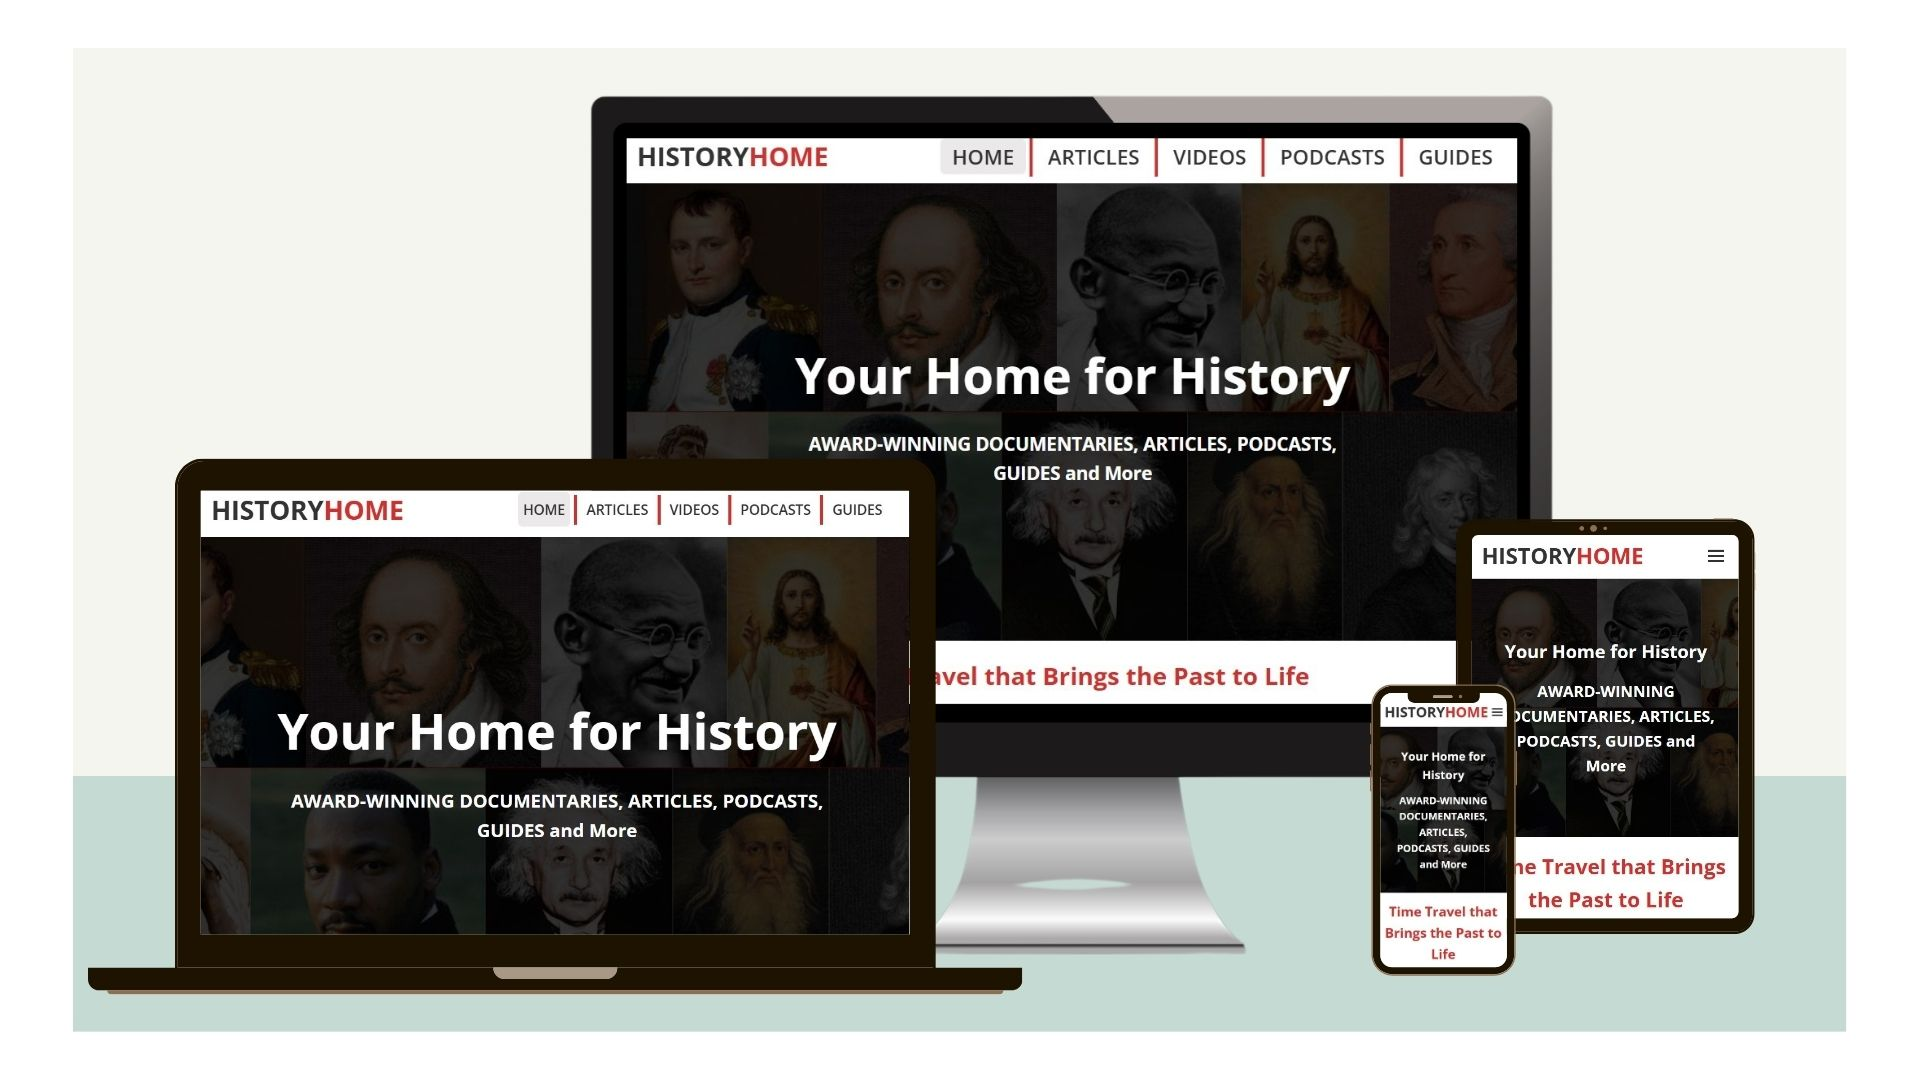
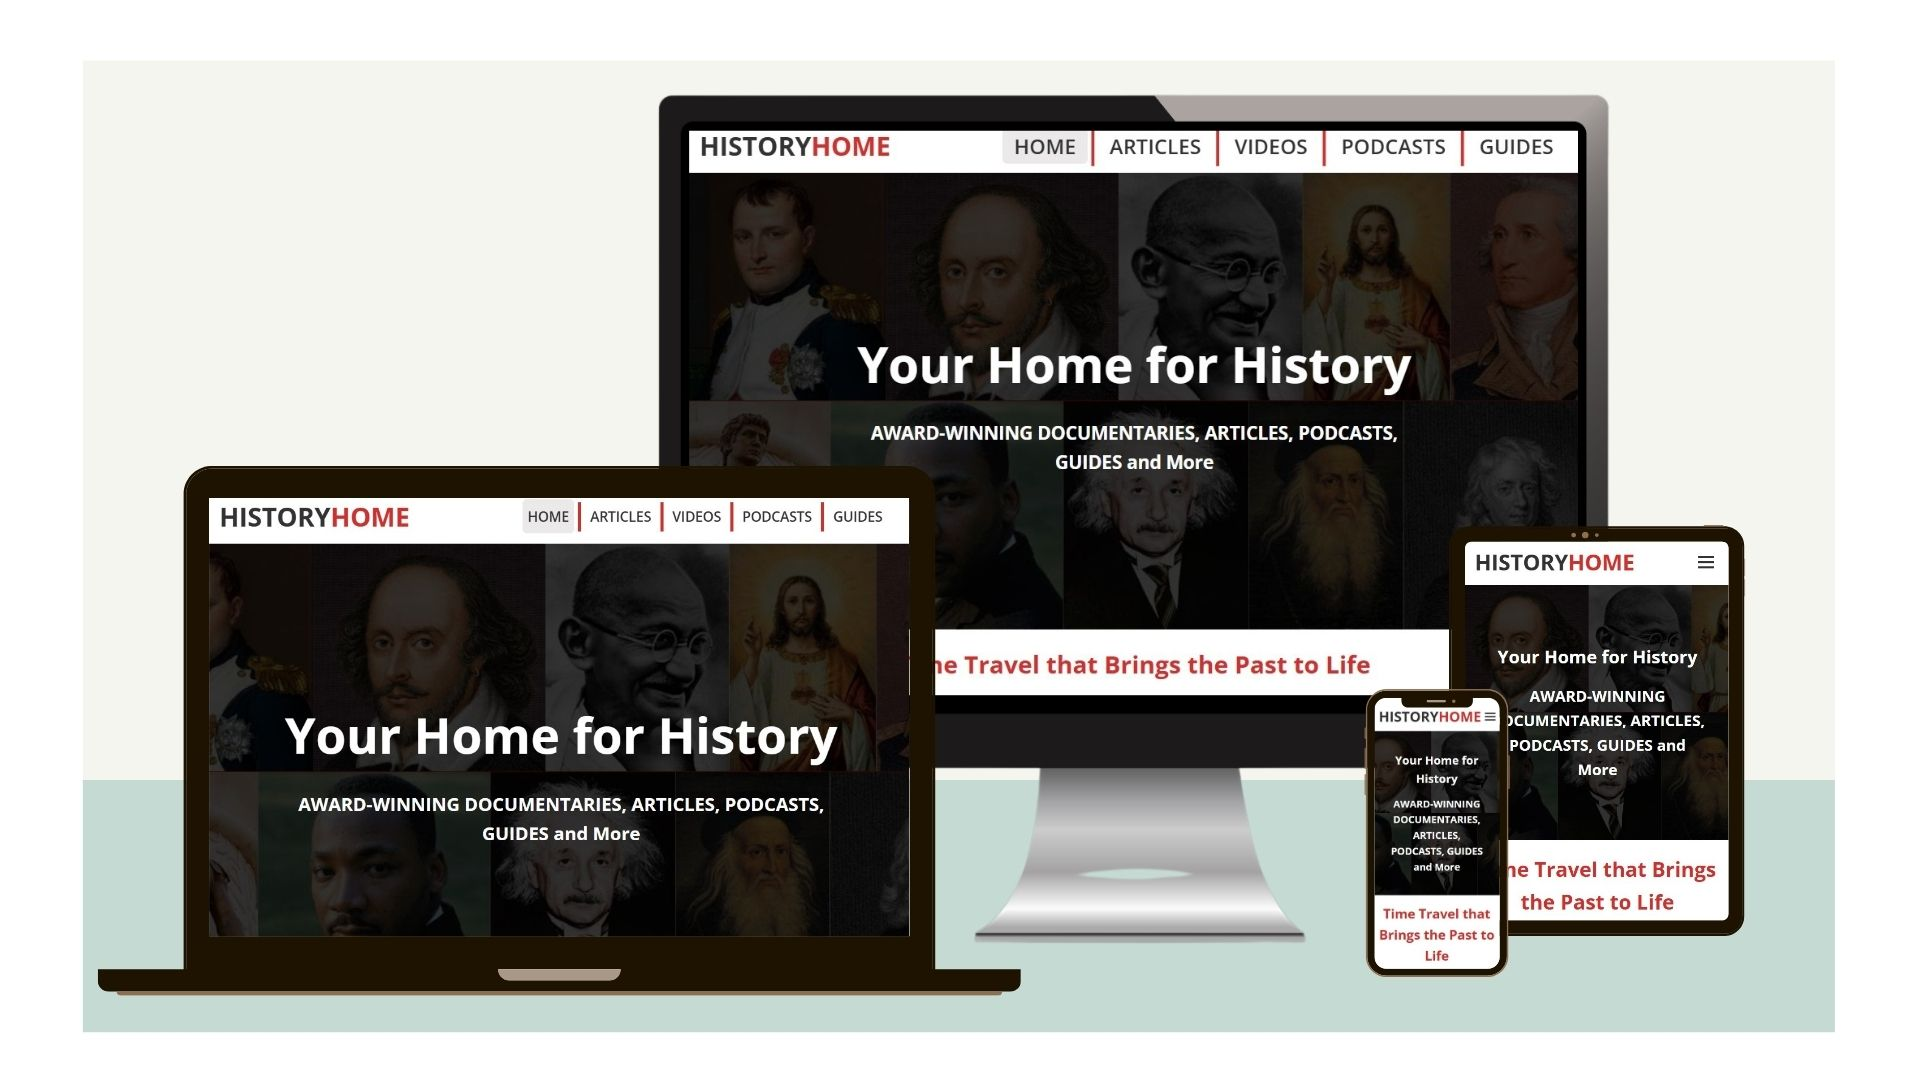
All files added to commit

Changed region(s): [[0.0312, 0.0611, 0.9688, 0.9472], [0.25, 0.825, 0.3125, 0.9167]]

diff --git a/assets/css/style.css b/assets/css/style.css
@@ -34,7 +34,7 @@ a {
 
 .index_header-inner {
   display: flex;
-  justify-content: space-between;
+  justify-content: space-around;
   align-items: center;
   height: 70px;
 }
@@ -473,7 +473,7 @@ a {
 
 .articles_header-inner {
   display: flex;
-  justify-content: space-between;
+  justify-content: space-around;
   align-items: center;
   height: 70px;
 }
@@ -907,7 +907,7 @@ a {
 
 .documentaries_header-inner {
   display: flex;
-  justify-content: space-between;
+  justify-content: space-around;
   align-items: center;
   height: 70px;
 }
@@ -1578,7 +1578,7 @@ a {
 
 .podcasts_header-inner {
   display: flex;
-  justify-content: space-between;
+  justify-content: space-around;
   align-items: center;
   height: 70px;
 }
@@ -1688,7 +1688,7 @@ a {
   padding: 20px 0;
 }
 
-.podcasts_title {
+h2.title {
   font-size: 32px;
   font-weight: 700;
   color: #b71c1c;
@@ -2183,7 +2183,7 @@ body {
 
 .london_header-inner {
   display: flex;
-  justify-content: space-between;
+  justify-content: space-around;
   align-items: center;
   height: 70px;
 }
@@ -2892,7 +2892,7 @@ body {
 
 .events_header-inner {
   display: flex;
-  justify-content: space-between;
+  justify-content: space-around;
   align-items: center;
   height: 70px;
 }
@@ -3413,7 +3413,7 @@ body {
 
 .people_header-inner {
   display: flex;
-  justify-content: space-between;
+  justify-content: space-around;
   align-items: center;
   height: 70px;
 }
@@ -3936,7 +3936,7 @@ body {
 
 .ada_lovelace_article_header-inner {
   display: flex;
-  justify-content: space-between;
+  justify-content: space-around;
   align-items: center;
   height: 70px;
 }
@@ -4355,7 +4355,7 @@ body {
 
 .einstein_article_header-inner {
   display: flex;
-  justify-content: space-between;
+  justify-content: space-around;
   align-items: center;
   height: 70px;
 }
@@ -4802,7 +4802,7 @@ body {
 
 .first_train_article_header-inner {
   display: flex;
-  justify-content: space-between;
+  justify-content: space-around;
   align-items: center;
   height: 70px;
 }
@@ -5244,7 +5244,7 @@ body {
 
 .roman_empire_article_header-inner {
   display: flex;
-  justify-content: space-between;
+  justify-content: space-around;
   align-items: center;
   height: 70px;
 }
@@ -5677,7 +5677,7 @@ body {
 
 .about_us_header-inner {
   display: flex;
-  justify-content: space-between;
+  justify-content: space-around;
   align-items: center;
   height: 70px;
 }
@@ -5687,6 +5687,7 @@ body {
   font-weight: 700;
   text-decoration: none;
   color: #333;
+   
 }
 
 .about_us_logo span {
@@ -6104,7 +6105,7 @@ body {
 
 .contact_us_header-inner {
   display: flex;
-  justify-content: space-between;
+  justify-content: space-around;
   align-items: center;
   height: 70px;
 }
@@ -6532,7 +6533,7 @@ body {
 
 .privacy_policy_header-inner {
   display: flex;
-  justify-content: space-between;
+  justify-content: space-around;
   align-items: center;
   height: 70px;
 }
@@ -6976,7 +6977,7 @@ body {
 
 .terms_of_use_header-inner {
   display: flex;
-  justify-content: space-between;
+  justify-content: space-around;
   align-items: center;
   height: 70px;
 }
@@ -7423,7 +7424,7 @@ body {
 
 .our_team_header-inner {
   display: flex;
-  justify-content: space-between;
+  justify-content: space-around;
   align-items: center;
   height: 70px;
 }
@@ -7858,7 +7859,7 @@ body {
 
 .cookie_policy_header-inner {
   display: flex;
-  justify-content: space-between;
+  justify-content: space-around;
   align-items: center;
   height: 70px;
 }

diff --git a/index.html b/index.html
@@ -26,7 +26,7 @@
             
             <div class="index_header-inner">
                 <div class="index_logo">
-                    <a href="#">HISTORY<span>HOME</span></a>
+                    <a href="#">THE<span>HISTORY</span></a>
                 </div>
 
                 
@@ -82,9 +82,9 @@
                                 <span class="index_badge">Documentary</span>
                             </div>
                             <div class="index_card-content">
-                                <h3>The Mystery of The Encient Inca Civilization </h3>
+                                <h3>Encient Inca Civilization </h3>
                                 <p class="index_meta">45 min | 2022</p>
-                                <p>Explore the full story of The Great Inca Culture.</p>
+                                <p>Full story of The Great Inca Culture.</p>
                             </div>
                         </div>
                     </a>
@@ -96,9 +96,9 @@
                                 <span class="index_badge">Article</span>
                             </div>
                             <div class="index_card-content">
-                                <h3>The Rise and Fall of the Roman Empire</h3>
+                                <h3>The Roman Empire</h3>
                                 <p class="index_meta">15 min read</p>
-                                <p>How Rome became a superpower and why it eventually collapsed.</p>
+                                <p>Rome's Superpower and its Collapse</p>
                             </div>
                         </div>
                     </a>
@@ -110,10 +110,9 @@
                                 <span class="index_badge">Article</span>
                             </div>
                             <div class="index_card-content">
-                                <h3>Ada Lovelace, famous for her work on early computer.</h3>
+                                <h3>Ada Lovelace</h3>
                                 <p class="index_meta">15 min read</p>
-                                <p>Whose contributions led to the development of IT we
-                                    have now.</p>
+                                <p>Origings of computing we have now</p>
                             </div>
                         </div>
                     </a>
@@ -144,7 +143,7 @@
                             <div class="index_card-content">
                                 <h3>Voices of the Past</h3>
                                 <p class="index_meta">Episode 42</p>
-                                <p>Napoleon Bonaparte's conquests in Europe - Military Knowledge.</p>
+                                <p>Napoleon Bonaparte's conquests in Europe</p>
                             </div>
                         </div>
                     </a>

diff --git a/articles.html b/articles.html
@@ -21,7 +21,7 @@
             
             <div class="articles_header-inner">
                 <div class="articles_logo">
-                    <a href="./index.html">HISTORY<span>HOME</span></a>
+                    <a href="./index.html">THE<span>HISTORY</span></a>
                 </div>
                  
                  <input type="checkbox" id="articles_mobile-menu-toggle" class="articles_mobile-menu-toggle">
@@ -83,7 +83,7 @@
                     <div class="articles_card-content">
                         <h3>The World’s First Computer Programmer</h3>
                         <p class="articles_meta">15 min read</p>
-                        <p>Groundbreaking contributions to computing—long before computers were even built. </p>
+                        <p>Contributions to computing— before computers were built. </p>
                     </div>
                 </div>
             </a>
@@ -109,7 +109,7 @@
                     <div class="articles_card-content">
                         <h3>Albert Einstein. The Life of a Genius</h3>
                         <p class="articles_meta">5min read</p>
-                        <p>Extraordinary intellect and deep humanity. Whose discoveries reshaped science</p>
+                        <p>Exraodinary Intellect and deep humanity. Whose discoveries reshaped science forever</p>
                     </div>
                 </div></a>
                 

diff --git a/ada_lovelace_article.html b/ada_lovelace_article.html
@@ -21,7 +21,7 @@
             
             <div class="ada_lovelace_article_header-inner">
                 <div class="ada_lovelace_article_logo">
-                    <a href="./index.html">HISTORY<span>HOME</span></a>
+                    <a href="./index.html">THE<span>HISTORY</span></a>
                 </div>
 
                  

diff --git a/roman_empire_article.html b/roman_empire_article.html
@@ -20,7 +20,7 @@
             
             <div class="roman_empire_article_header-inner">
                 <div class="roman_empire_article_logo">
-                    <a href="./index.html">HISTORY<span>HOME</span></a>
+                    <a href="./index.html">THE<span>HISTORY</span></a>
                 </div>
 
                  

diff --git a/einstein_article.html b/einstein_article.html
@@ -25,7 +25,7 @@
             
             <div class="einstein_article_header-inner">
                 <div class="einstein_article_logo">
-                    <a href="./index.html">HISTORY<span>HOME</span></a>
+                    <a href="./index.html">THE<span>HISTORY</span></a>
                 </div>
 
                 

diff --git a/privacy_policy.html b/privacy_policy.html
@@ -23,7 +23,7 @@
             
             <div class="privacy_policy_header-inner">
                 <div class="privacy_policy_logo">
-                    <a href="./index.html">HISTORY<span>HOME</span></a>
+                    <a href="./index.html">THE<span>HISTORY</span></a>
                 </div>
 
                 

diff --git a/cookie_policy.html b/cookie_policy.html
@@ -25,7 +25,7 @@
             
             <div class="cookie_policy_header-inner">
                 <div class="cookie_policy_logo">
-                    <a href="./index.html">HISTORY<span>HOME</span></a>
+                    <a href="./index.html">THE<span>HISTORY</span></a>
                 </div>
 
                 

diff --git a/documentaries.html b/documentaries.html
@@ -26,7 +26,7 @@
             
             <div class="documentaries_header-inner">
                 <div class="documentaries_logo">
-                    <a href="./index.html">HISTORY<span>HOME</span></a>
+                    <a href="./index.html">THE<span>HISTORY</span></a>
                 </div>
 
                 

diff --git a/terms_of_use.html b/terms_of_use.html
@@ -24,7 +24,7 @@
             
             <div class="terms_of_use_header-inner">
                 <div class="terms_of_use_logo">
-                    <a href="./index.html">HISTORY<span>HOME</span></a>
+                    <a href="./index.html">THE<span>HISTORY</span></a>
                 </div>
 
                 

diff --git a/first_train_article.html b/first_train_article.html
@@ -21,7 +21,7 @@
             
             <div class="first_train_article_header-inner">
                 <div class="first_train_article_logo">
-                    <a href="./index.html">HISTORY<span>HOME</span></a>
+                    <a href="./index.html">THE<span>HISTORY</span></a>
                 </div>
 
  

diff --git a/contact_us.html b/contact_us.html
@@ -25,7 +25,7 @@
             
             <div class="contact_us_header-inner">
                 <div class="contact_us_logo">
-                    <a href="./index.html">HISTORY<span>HOME</span></a>
+                    <a href="./index.html">THE<span>HISTORY</span></a>
                 </div>
 
                 
